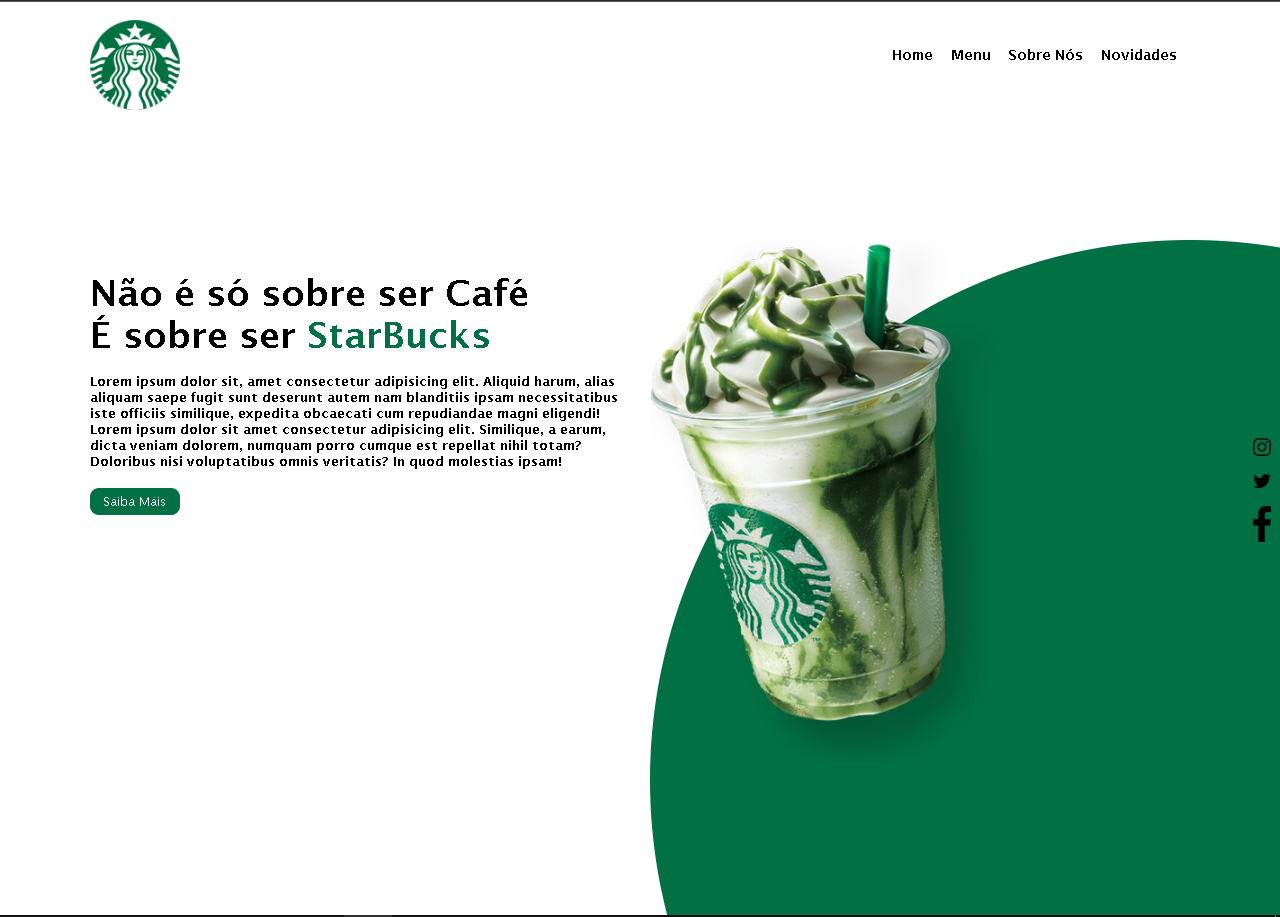
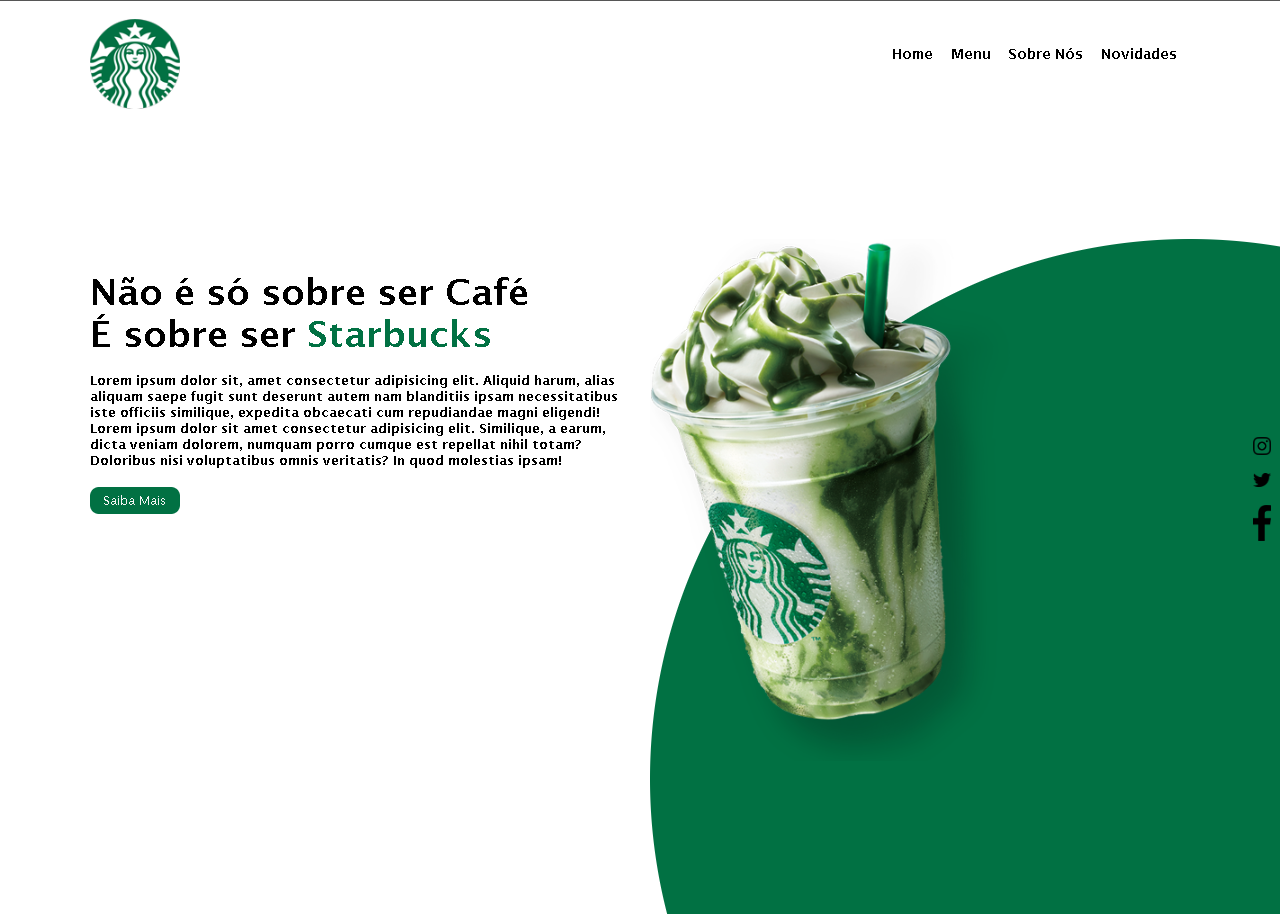
Atualização

diff --git a/index.html b/index.html
@@ -30,7 +30,7 @@
         </div>
         <div class="center">
             <div class="texto-sobre">
-                <h1>Não é só sobre ser Café <br> É sobre ser <span style="color:#017143;">StarBucks</span></h1>
+                <h1>Não é só sobre ser Café <br> É sobre ser <span style="color:#017143;">Starbucks</span></h1>
                 <p>Lorem ipsum dolor sit, amet consectetur adipisicing elit. Aliquid harum, alias aliquam saepe fugit sunt deserunt autem nam blanditiis ipsam necessitatibus iste officiis similique, expedita obcaecati cum repudiandae magni eligendi! Lorem ipsum dolor sit amet consectetur adipisicing elit. Similique, a earum, dicta veniam dolorem, numquam porro cumque est repellat nihil totam? Doloribus nisi voluptatibus omnis veritatis? In quod molestias ipsam!</p>
                 <button>Saiba Mais</button>
             </div>
